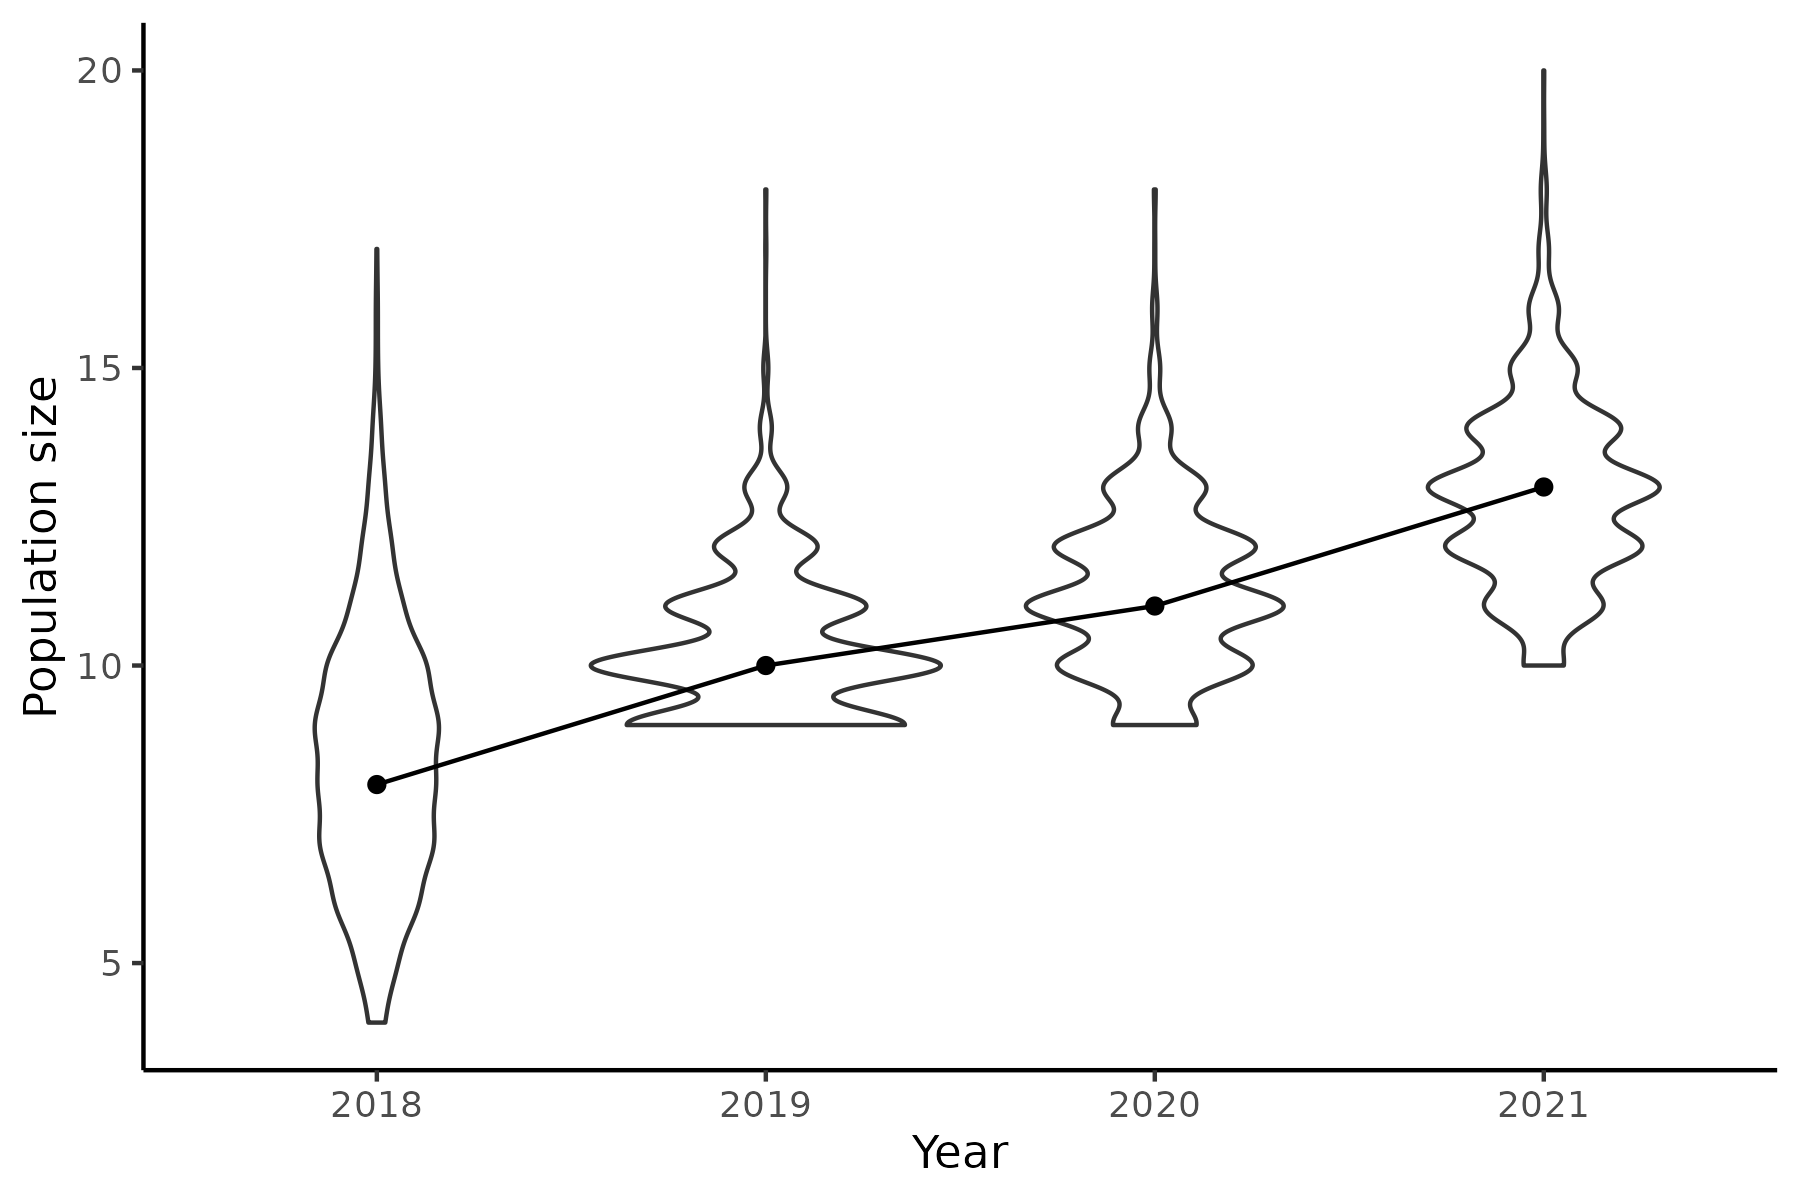
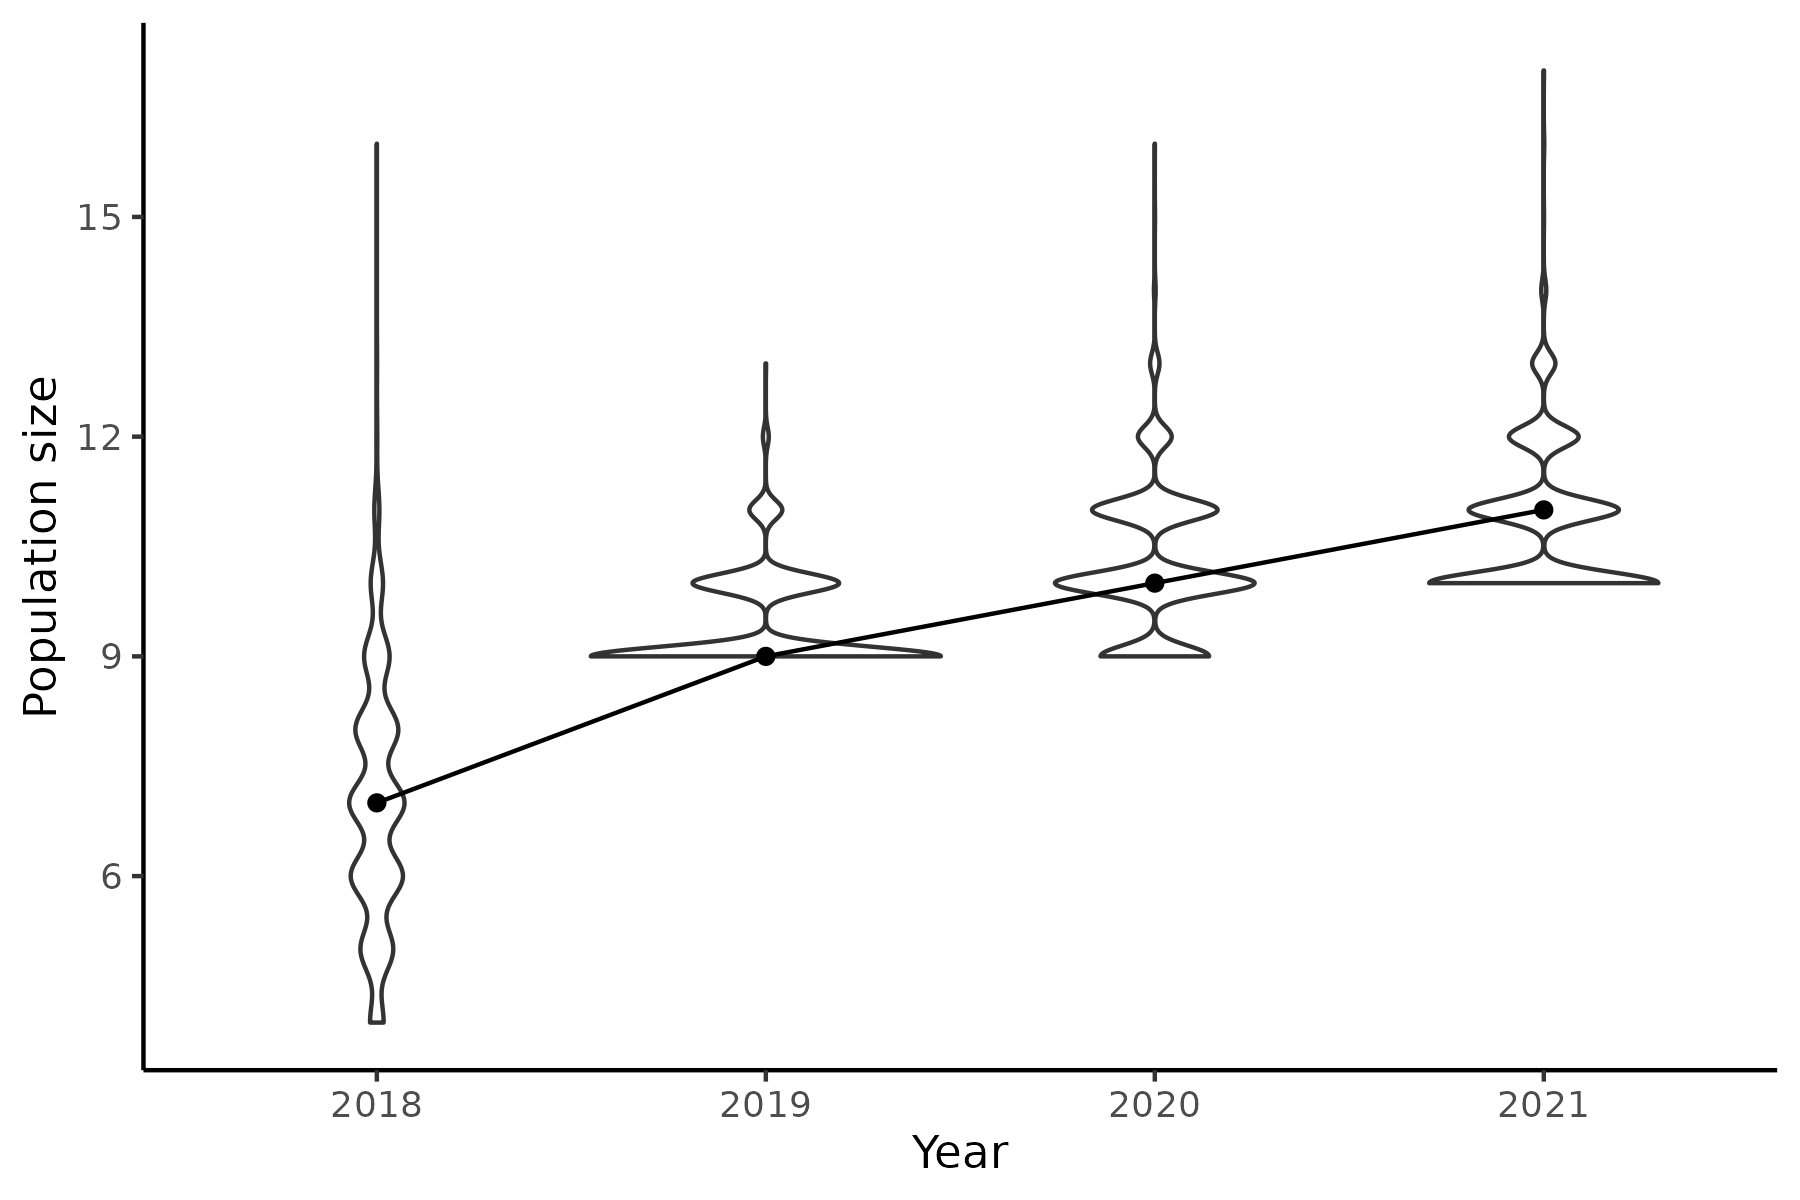
run locked version of JS

diff --git a/README.md b/README.md
@@ -4,5 +4,5 @@ This repo contains code to run capture-recapture model to determine the status o
 
 We implemented a (spatially-explicit) Jolly-Seber model with habitat selection in Stan. (See the `stan` folder). Since Stan does not allow discrete parameters, the state of the individual was manually marginalized during posterior sampling via a forward algorithm and the sample back using forward filtering backward sampling (FFBS) algorithm. One can use `make` to run part of all of the work flow
 
-![density map](https://raw.githubusercontent.com/YunyiShen/Costa-Rica-Jaguar/master/res/Figs/js_den_est.png)
-![population estimate](https://raw.githubusercontent.com/YunyiShen/Costa-Rica-Jaguar/master/res/Figs/js_pop_est.png)
+![density map](https://raw.githubusercontent.com/YunyiShen/Costa-Rica-Jaguar/master/res/Figs/js_null_den_est.png)
+![population estimate](https://raw.githubusercontent.com/YunyiShen/Costa-Rica-Jaguar/master/res/Figs/js_null_pop_est.png)
